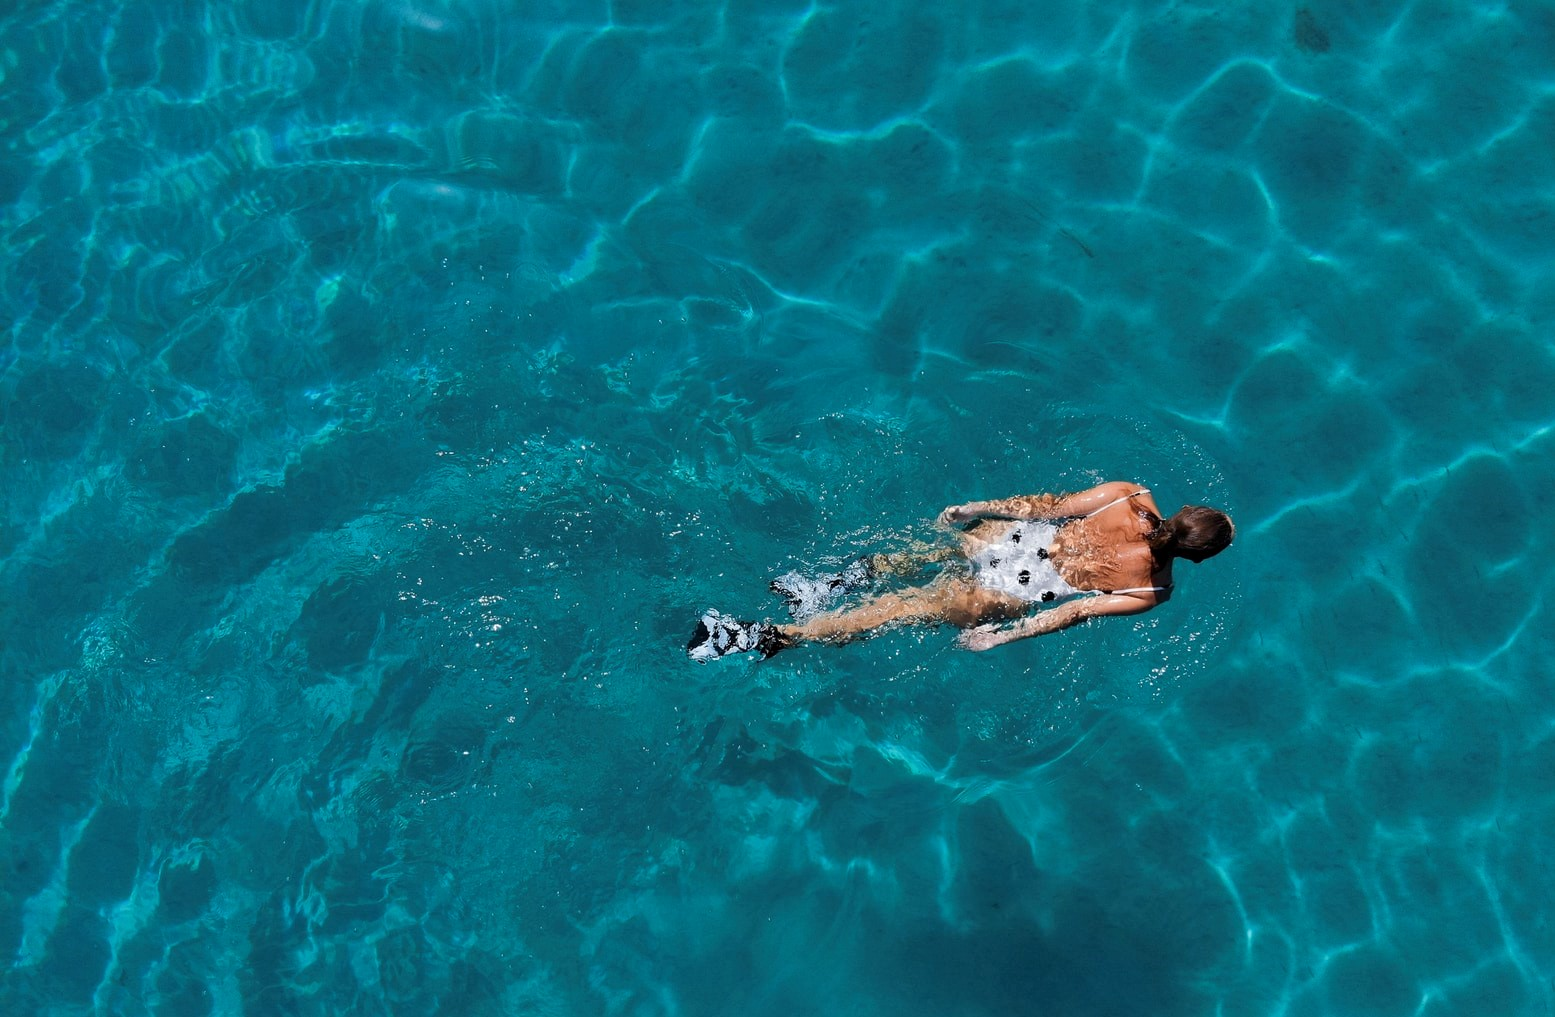
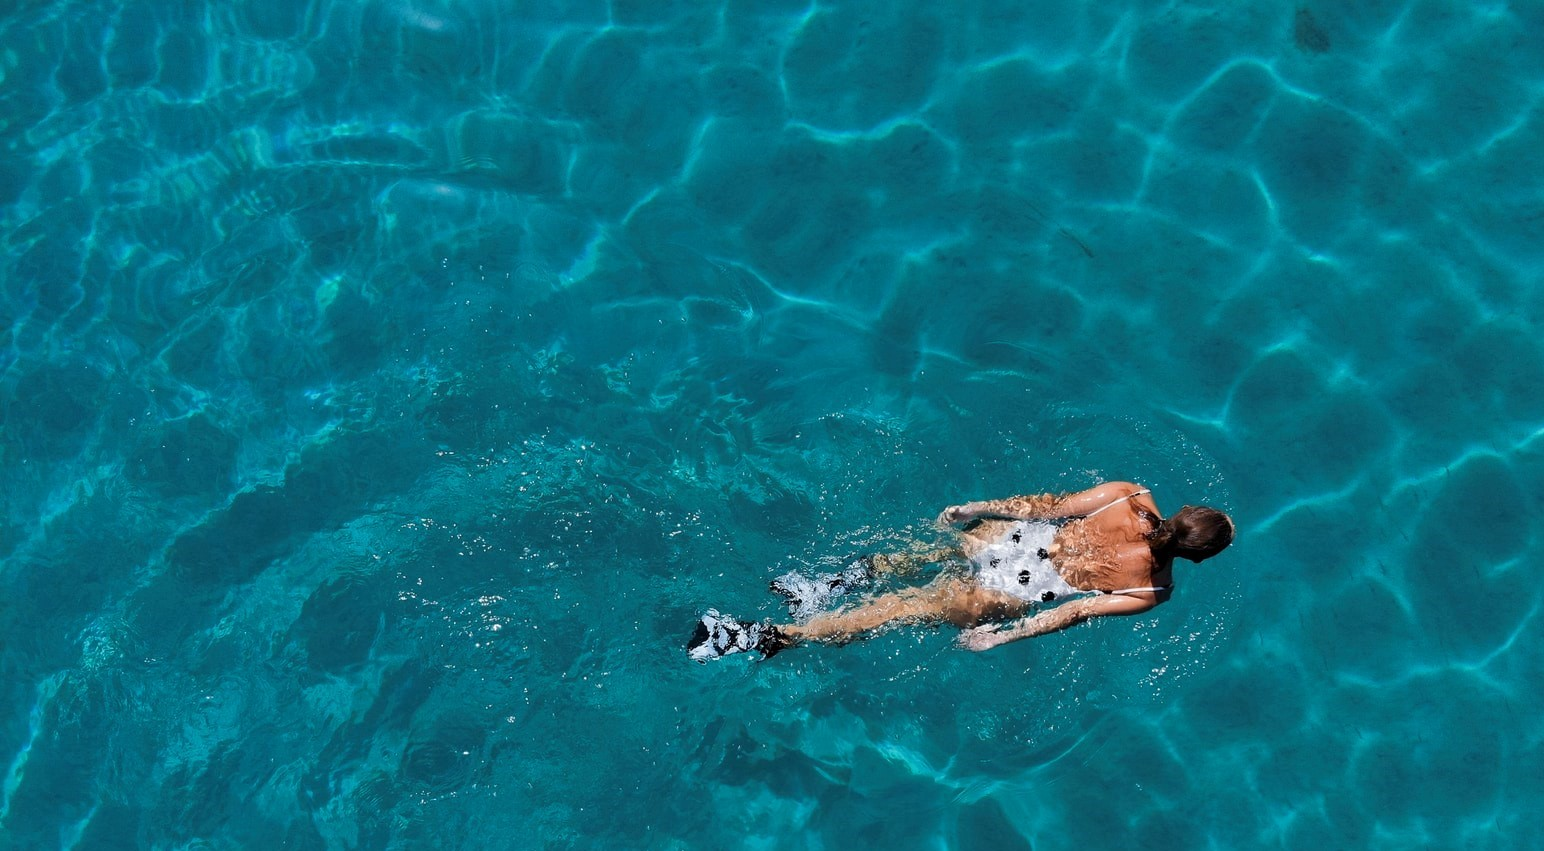
Add page transitions using framer motion

diff --git a/src/components/pages/Destinations.js b/src/components/pages/Destinations.js
@@ -1,16 +1,24 @@
 import React from 'react';
 import '../../App.css';
+import { motion } from 'framer-motion';
+import { pageTransition, transition } from '../../animations/index';
 
 function Destinations() {
   return (
-    <div>
+    <motion.div
+      initial="out"
+      animate="in"
+      exit="out"
+      variants={pageTransition}
+      transition={transition}
+    >
       <img
         src="./images/img-destination.jpg"
         alt="beach"
         className="page-cover"
       />
       <h1 className="destinations">DESTINATIONS</h1>
-    </div>
+    </motion.div>
   );
 }
 

diff --git a/src/components/pages/SignUp.js b/src/components/pages/SignUp.js
@@ -1,16 +1,24 @@
 import React from 'react';
 import '../../App.css';
+import { motion } from 'framer-motion';
+import { pageTransition, transition } from '../../animations/index';
 
 function SignUp() {
   return (
-    <div>
+    <motion.div
+      initial="out"
+      animate="in"
+      exit="out"
+      variants={pageTransition}
+      transition={transition}
+    >
       <img
         src="./images/img-signup.jpg"
         alt="woman swimming"
         className="page-cover"
       />
       <h1 className="sign-up">SIGN UP</h1>
-    </div>
+    </motion.div>
   );
 }
 

diff --git a/src/components/pages/Services.js b/src/components/pages/Services.js
@@ -1,12 +1,20 @@
 import React from 'react';
 import '../../App.css';
+import { motion } from 'framer-motion';
+import { pageTransition, transition } from '../../animations/index';
 
 function Services() {
   return (
-    <div>
+    <motion.div
+      initial="out"
+      animate="in"
+      exit="out"
+      variants={pageTransition}
+      transition={transition}
+    >
       <img src="./images/img-services.jpg" alt="ship" className="page-cover" />
       <h1 className="services">SERVICES</h1>
-    </div>
+    </motion.div>
   );
 }
 

diff --git a/src/components/pages/Home.js b/src/components/pages/Home.js
@@ -3,14 +3,22 @@ import Cards from '../Cards';
 import React from 'react';
 import '../../App.css';
 import Footer from '../Footer';
+import { motion } from 'framer-motion';
+import { pageTransition, transition } from '../../animations/index';
 
 function Home() {
   return (
-    <>
+    <motion.div
+      initial="out"
+      animate="in"
+      exit="out"
+      variants={pageTransition}
+      transition={transition}
+    >
       <Cover />
       <Cards />
       <Footer />
-    </>
+    </motion.div>
   );
 }
 

diff --git a/src/components/Footer.css b/src/components/Footer.css
@@ -95,7 +95,7 @@
   display: flex;
   justify-content: space-between;
   align-items: center;
-  width: 90%;
+  width: 40%;
   max-width: 1000px;
   margin: 40px auto 0 auto;
 }
@@ -105,17 +105,6 @@
   justify-content: space-between;
   align-items: center;
   width: 240px;
-}
-
-.social-logo {
-  color: #fff;
-  justify-self: start;
-  cursor: pointer;
-  text-decoration: none;
-  font-size: 2rem;
-  display: flex;
-  align-items: center;
-  margin: auto 0px 16px 20px;
 }
 
 .website-rights {

diff --git a/src/components/Footer.js b/src/components/Footer.js
@@ -59,12 +59,6 @@ function Footer() {
       </div>
       <section class="social-media">
         <div class="social-media-wrap">
-          <div class="footer-logo">
-            <Link to="/" className="social-logo">
-              <img src="navbar-icon.png" alt="" className="navbar-icon" />
-              TXP
-            </Link>
-          </div>
           <small class="website-rights">TXP © 2021</small>
           <div class="social-icons">
             <Link

diff --git a/src/components/Navbar.js b/src/components/Navbar.js
@@ -18,10 +18,6 @@ function Navbar() {
     }
   };
 
-  useEffect(() => {
-    showButton();
-  }, []);
-
   const changeBackground = () => {
     if (window.scrollY >= 80) {
       setNavbar(true);
@@ -29,6 +25,10 @@ function Navbar() {
       setNavbar(false);
     }
   };
+
+  useEffect(() => {
+    showButton();
+  }, []);
 
   window.addEventListener('resize', showButton);
   window.addEventListener('scroll', changeBackground);

diff --git a/src/animations/index.js b/src/animations/index.js
@@ -1,0 +1,12 @@
+export const pageTransition = {
+  in: {
+    opacity: 1,
+  },
+  out: {
+    opacity: 0,
+  },
+};
+
+export const transition = {
+  duration: 0.5,
+};

diff --git a/src/App.css b/src/App.css
@@ -8,9 +8,10 @@
 }
 
 .page-cover {
+  margin-top: -80px;
   object-fit: cover;
   width: 100%;
-  height: 100%;
+  height: 100vh;
   position: fixed;
   z-index: -1;
 }
